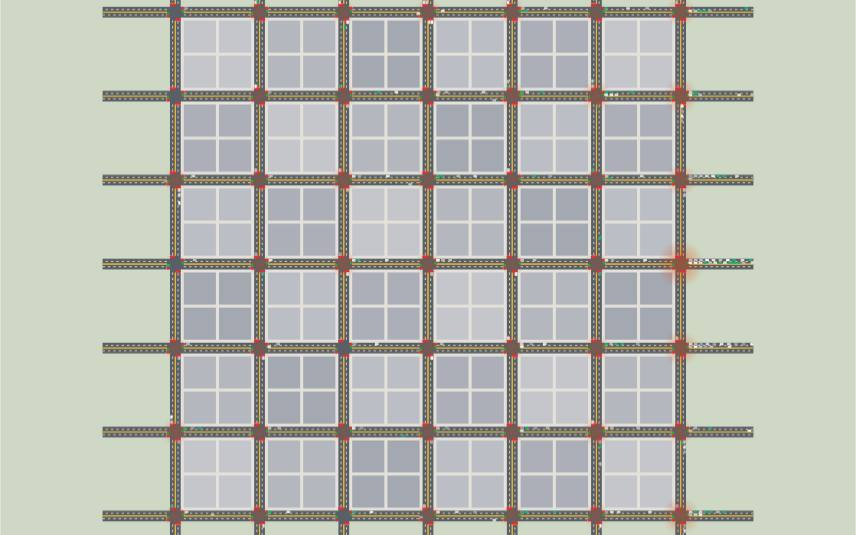
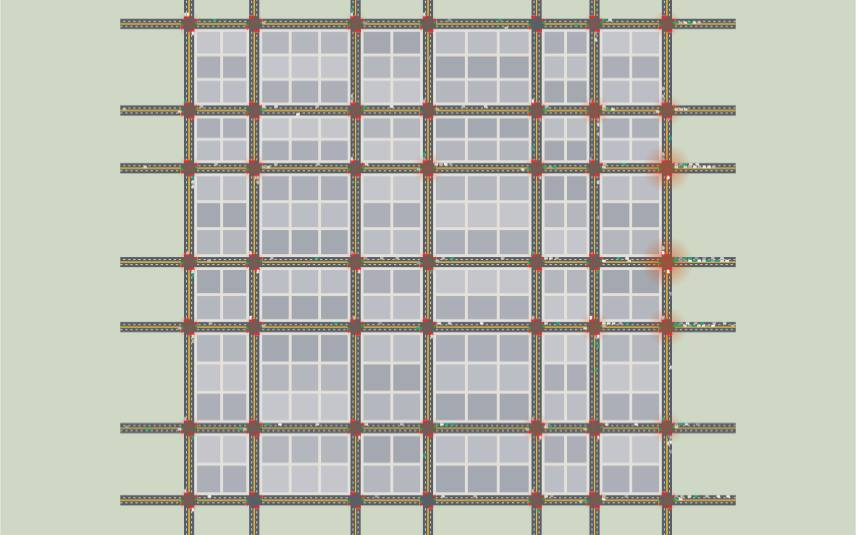
city: rectangular blocks of different sizes (same 660 m x 660 m city)
Block widths 80-150 m and depths 80-140 m instead of 110 m squares; buildings fill each block in
a grid sized to it; green-wave offsets follow the real junction positions.

Claude-Session: https://claude.ai/code/session_018TgSjskQAQXC3oupXK6uVL

diff --git a/assets/city/city-app.js b/assets/city/city-app.js
@@ -1,7 +1,7 @@
 // SPDX-License-Identifier: AGPL-3.0-only
 // Copyright (c) 2026 1004aiteam-power — Ontology Space (https://github.com/1004aiteam-power/ontology-space)
 // 도시 교통망 페이지: 위에서 본 도시 · 조절 · 대시보드(숫자, 시간 그래프, 자율주행 비교, 출입구) · 자율주행차 따라가기
-import { City, DEFAULTS, GEO, N, PHASES, lanePoint } from './city.js?v=d197b60e';
+import { City, DEFAULTS, GEO, N, PHASES, lanePoint, XS, YS, SPAN } from './city.js?v=d34525a7';
 import { $, t, css, dark, fit } from '../lib/dom.js?v=3b73d59c';
 
 const SPEEDS = [1, 2, 5, 10, 20];
@@ -18,7 +18,7 @@ const HUMAN_COLS = ['#d9dde3', '#b9c0ca', '#f1f3f5', '#9aa3ad', '#c7b9a6', '#e8e
 let sim, running = false, speedIdx = 1, seed = 1, acc = 0, last = 0, follow = null, picked = null, hover = null, followProbe = false;
 const PROBE_COL = '#e64980';
 const mmss = (s) => (Number.isFinite(s) ? `${Math.floor(s / 60)}:${String(Math.round(s % 60)).padStart(2, '0')}` : '–');
-const view = { cx: 3 * GEO.block, cy: 3 * GEO.block, s: 1, fitted: false };
+const view = { cx: SPAN / 2, cy: SPAN / 2, s: 1, fitted: false };
 const num = (id) => +$(id).value;
 const flag = (id) => $(id).checked;
 const kmh = (v) => (Number.isFinite(v) ? (v * 3.6).toFixed(0) : '–');
@@ -36,8 +36,8 @@ function build() {
 
 // ---- 위에서 본 도시 ---------------------------------------------------------------------
 function fitView(cw, ch) {
-  const span = (N - 1) * GEO.block + 2 * GEO.gate + 20;
-  view.s = Math.min(cw, ch) / span; view.cx = 3 * GEO.block; view.cy = 3 * GEO.block; view.fitted = true;
+  const span = SPAN + 2 * GEO.gate + 70;                      // 출발 · 도착 깃발 글자까지 보이게
+  view.s = Math.min(cw, ch) / span; view.cx = SPAN / 2; view.cy = SPAN / 2; view.fitted = true;
 }
 const toScr = (x, y, cw, ch) => [cw / 2 + (x - view.cx) * view.s, ch / 2 + (y - view.cy) * view.s];
 
@@ -48,25 +48,27 @@ function draw() {
     const p = sim.carPos(follow); view.cx += (p[0] - view.cx) * 0.15; view.cy += (p[1] - view.cy) * 0.15;
   }
   const S = view.s, X = (x) => cw / 2 + (x - view.cx) * S, Y = (y) => ch / 2 + (y - view.cy) * S;
-  const B = GEO.block, half = 2 * GEO.laneW, dk = dark();
+  const half = 2 * GEO.laneW, dk = dark();
   ctx.fillStyle = dk ? '#1d2620' : '#cfd8c4'; ctx.fillRect(0, 0, cw, ch);
   // 블록 (보도 + 건물)
   for (let j = 0; j < N - 1; j++) for (let i = 0; i < N - 1; i++) {
-    const x0 = i * B + half, y0 = j * B + half, w = B - 2 * half;
-    ctx.fillStyle = dk ? '#3a3d42' : '#e4e1da'; ctx.fillRect(X(x0), Y(y0), w * S, w * S);
-    const inset = 4, bw = (w - 2 * inset - 4) / 2;
-    for (let q = 0; q < 4; q++) {
-      const bx = x0 + inset + (q % 2) * (bw + 4), by = y0 + inset + Math.floor(q / 2) * (bw + 4), h = ((i * 7 + j * 3 + q * 5) % 5) / 5;
+    const x0 = XS[i] + half, y0 = YS[j] + half, w = XS[i + 1] - XS[i] - 2 * half, hgt = YS[j + 1] - YS[j] - 2 * half;
+    ctx.fillStyle = dk ? '#3a3d42' : '#e4e1da'; ctx.fillRect(X(x0), Y(y0), w * S, hgt * S);
+    // 건물: 블록 크기에 맞춰 가로 · 세로 개수를 다르게 (블록마다 모양이 달라 보이게)
+    const inset = 4, gap = 4, nx = Math.max(1, Math.round(w / 42)), ny = Math.max(1, Math.round(hgt / 42));
+    const bw = (w - 2 * inset - (nx - 1) * gap) / nx, bh = (hgt - 2 * inset - (ny - 1) * gap) / ny;
+    for (let a = 0; a < nx; a++) for (let b = 0; b < ny; b++) {
+      const bx = x0 + inset + a * (bw + gap), by = y0 + inset + b * (bh + gap), h = ((i * 7 + j * 3 + a * 5 + b * 3) % 5) / 5;
       ctx.fillStyle = dk ? `rgb(${52 + h * 26},${56 + h * 26},${64 + h * 26})` : `rgb(${196 - h * 40},${198 - h * 38},${204 - h * 34})`;
-      ctx.fillRect(X(bx), Y(by), bw * S, bw * S);
+      ctx.fillRect(X(bx), Y(by), bw * S, bh * S);
     }
   }
   // 도로 (출입구 도로 포함)
   ctx.fillStyle = dk ? '#2b2e33' : '#5a5f67';
-  const lo = -GEO.gate, hi = (N - 1) * B + GEO.gate;
+  const lo = -GEO.gate, hi = SPAN + GEO.gate;
   for (let k = 0; k < N; k++) {
-    ctx.fillRect(X(lo), Y(k * B - half), (hi - lo) * S, 2 * half * S);
-    ctx.fillRect(X(k * B - half), Y(lo), 2 * half * S, (hi - lo) * S);
+    ctx.fillRect(X(lo), Y(YS[k] - half), (hi - lo) * S, 2 * half * S);
+    ctx.fillRect(X(XS[k] - half), Y(lo), 2 * half * S, (hi - lo) * S);
   }
   // 차선: 중앙선(황색) · 차로 경계(흰 점선) · 정지선 (가까이 볼 때만)
   if (S > 0.55) {

diff --git a/city.html b/city.html
@@ -30,7 +30,7 @@
 <link rel="stylesheet" href="assets/css/city.css?v=e12bfa2d">
 <link rel="license" href="https://creativecommons.org/licenses/by-nc-sa/4.0/">
 <script src="assets/site.js?v=d70a462d" defer></script>
-<script type="module" src="assets/city/city-app.js?v=7b90114b"></script>
+<script type="module" src="assets/city/city-app.js?v=fa9b2df7"></script>
 </head>
 <body>
 <a class="skip" href="#main"><span lang="ko">본문 바로가기</span><span lang="en">Skip to content</span></a>
@@ -132,8 +132,8 @@
 <div class="hero">
   <div class="eyebrow"><span lang="ko">시뮬레이션 · 교통</span><span lang="en">SIMULATION · TRAFFIC</span></div>
   <h1><span lang="ko">신호등과 자율주행차가 있는<br>도시 교통망</span><span lang="en">A city road network<br>with signals and autonomous cars</span></h1>
-  <p class="lead" lang="ko">가로세로 6블록짜리 가상 도시를 위에서 내려다봅니다. 교차로 49곳에 신호등이 있고, 차들은 차로를 지키며 좌회전 · 직진 · 우회전으로 도시를 지나갑니다. 도시 바깥 28곳의 출입구에서 차가 <b>무작위로 들어오고 무작위 목적지로 나갑니다.</b> 자율주행차의 비율과 신호 방식을 바꾸며 <b>유입 · 유출 · 지연</b>이 어떻게 달라지는지 대시보드로 확인해 보세요.</p>
-  <p class="lead" lang="en">A virtual city six blocks on each side, seen from above. Forty-nine junctions have signals; cars keep to their lanes and turn left, go straight or turn right. Cars <b>arrive at random from 28 gates on the edge and leave for random destinations.</b> Change the share of autonomous cars and the signal plan, and watch <b>inflow, outflow and delay</b> on the dashboard.</p>
+  <p class="lead" lang="ko">가로세로 6블록짜리 가상 도시(660 m × 660 m)를 위에서 내려다봅니다. 블록은 크기가 제각각인 직사각형입니다. 교차로 49곳에 신호등이 있고, 차들은 차로를 지키며 좌회전 · 직진 · 우회전으로 도시를 지나갑니다. 도시 바깥 28곳의 출입구에서 차가 <b>무작위로 들어오고 무작위 목적지로 나갑니다.</b> 자율주행차의 비율과 신호 방식을 바꾸며 <b>유입 · 유출 · 지연</b>이 어떻게 달라지는지 대시보드로 확인해 보세요.</p>
+  <p class="lead" lang="en">A virtual city six blocks on each side (660 m × 660 m), seen from above. The blocks are rectangles of different sizes. Forty-nine junctions have signals; cars keep to their lanes and turn left, go straight or turn right. Cars <b>arrive at random from 28 gates on the edge and leave for random destinations.</b> Change the share of autonomous cars and the signal plan, and watch <b>inflow, outflow and delay</b> on the dashboard.</p>
 </div>
 
 <section id="lab">
@@ -189,8 +189,8 @@
       <p id="cvNode"><span lang="ko">교차로를 누르면 그 교차로의 신호와 대기 차량이 보입니다.</span><span lang="en">Click a junction to see its signal and queues.</span></p>
     </div>
   </div>
-  <p class="meta" lang="ko">휠: 확대 · 드래그: 이동 · 더블클릭: 도시 전체 · 교차로 클릭: 그 교차로 정보. 차 한 대가 4.5 m이고 블록 한 변이 110 m입니다. 시간은 실제와 같은 속도(1×)에서 시작합니다.</p>
-  <p class="meta" lang="en">Wheel: zoom · drag: pan · double-click: whole city · click a junction: its details. A car is 4.5 m and a block is 110 m on a side. Time starts at real speed (1×).</p>
+  <p class="meta" lang="ko">휠: 확대 · 드래그: 이동 · 더블클릭: 도시 전체 · 교차로 클릭: 그 교차로 정보. 차 한 대가 4.5 m이고 블록은 가로 80~150 m, 세로 80~140 m입니다. 시간은 실제와 같은 속도(1×)에서 시작합니다.</p>
+  <p class="meta" lang="en">Wheel: zoom · drag: pan · double-click: whole city · click a junction: its details. A car is 4.5 m; blocks are 80–150 m wide and 80–140 m deep. Time starts at real speed (1×).</p>
 </section>
 
 <section id="dash">

diff --git a/assets/city/city.js b/assets/city/city.js
@@ -2,7 +2,8 @@
 // Copyright (c) 2026 1004aiteam-power — Ontology Space (https://github.com/1004aiteam-power/ontology-space)
 // 도시 교통망 시뮬레이션 코어 (화면 없이 동작 → 테스트 가능). 단위: 미터, 초. 화면 좌표(y 아래쪽), 우측통행
 //
-//  - 6×6 블록 격자 도시: 교차로 7×7 = 49개, 블록 한 변 110 m. 가장자리 28곳에 도시 밖과 이어지는 출입구
+//  - 6×6 블록 격자 도시: 교차로 7×7 = 49개, 전체 660 m × 660 m. 블록은 가로 80~150 m · 세로 80~140 m의 직사각형으로 제각각.
+//    가장자리 28곳에 도시 밖과 이어지는 출입구
 //  - 도로: 방향마다 2차로. 안쪽(0) = 좌회전 전용, 바깥쪽(1) = 직진·우회전
 //  - 차량: IDM(지능형 운전자 모델). 차로마다 앞에서부터 줄을 세워 앞차를 바로 찾는다
 //  - 교차로 통과: 정지선 → 교차로 안 곡선 → 다음 도로의 정해 둔 차로. 들어갈 자리가 없으면 교차로에 들어가지 않음(꼬리 물기 금지)
@@ -14,7 +15,12 @@
 // ⚠ 교육용 단순 모델입니다. 실제 교통 설계 · 신호 운영 기준을 대신하지 않습니다.
 
 export const N = 7;                         // 교차로 가로 · 세로 개수 (블록 6×6)
-export const GEO = { block: 110, laneW: 3.5, setback: 11, gate: 95 };
+export const GEO = { laneW: 3.5, setback: 11, gate: 95 };
+// 블록 폭(동서) · 높이(남북). 합은 둘 다 660 m (예전 정사각형 110 m × 6과 같은 크기)
+export const GAPS_X = [90, 140, 100, 150, 80, 100], GAPS_Y = [120, 80, 130, 90, 140, 100];
+const cum = (g) => g.reduce((a, d) => (a.push(a[a.length - 1] + d), a), [0]);
+export const XS = cum(GAPS_X), YS = cum(GAPS_Y);                 // 교차로 x · y 좌표
+export const SPAN = XS[XS.length - 1];
 export const DIRS = { E: [1, 0], W: [-1, 0], N: [0, -1], S: [0, 1] };
 const OPP = { E: 'W', W: 'E', N: 'S', S: 'N' };
 export const PHASES = [
@@ -64,8 +70,8 @@ export function turnOf(dIn, dOut) {
 
 // ---- 도로망 ----------------------------------------------------------------------------
 export function buildNetwork() {
-  const B = GEO.block, SB = GEO.setback, nodes = [], links = [], gates = [];
-  for (let j = 0; j < N; j++) for (let i = 0; i < N; i++) nodes.push({ id: j * N + i, i, j, x: i * B, y: j * B, in: [], out: [] });
+  const SB = GEO.setback, nodes = [], links = [], gates = [];
+  for (let j = 0; j < N; j++) for (let i = 0; i < N; i++) nodes.push({ id: j * N + i, i, j, x: XS[i], y: YS[j], in: [], out: [] });
   const addLink = (from, to, a, b, d, gate = null) => {
     const len = Math.hypot(b[0] - a[0], b[1] - a[1]);
     const l = { id: links.length, from, to, a, b, d, dk: dirKey(d), len, gate, lanes: [] };
@@ -150,7 +156,7 @@ export class City {
     const wIn = this.gates.reduce((s, g) => s + g.wIn, 0);
     for (const g of this.gates) { const r = o.inflow * g.wIn / wIn; if (r !== g.rate) { g.rate = r; g.nextT = this.expo(r); } }
     this.cycle = 2 * (o.green + o.left) + 4 * (o.yellow + o.allRed);
-    for (const n of this.nodes) n.offset = o.mode === 'wave' ? (n.i * GEO.block / o.vWave) % this.cycle : 0;
+    for (const n of this.nodes) n.offset = o.mode === 'wave' ? (n.x / o.vWave) % this.cycle : 0;
     if (o.mode === 'actuated' && prevMode !== 'actuated') for (const n of this.nodes) Object.assign(n, { stageT: 0, target: o.actuated.minT, lastDet: 0, stage: n.stage || 'green' });
     this.mode = o.mode;
     this.updateSignals(0);
